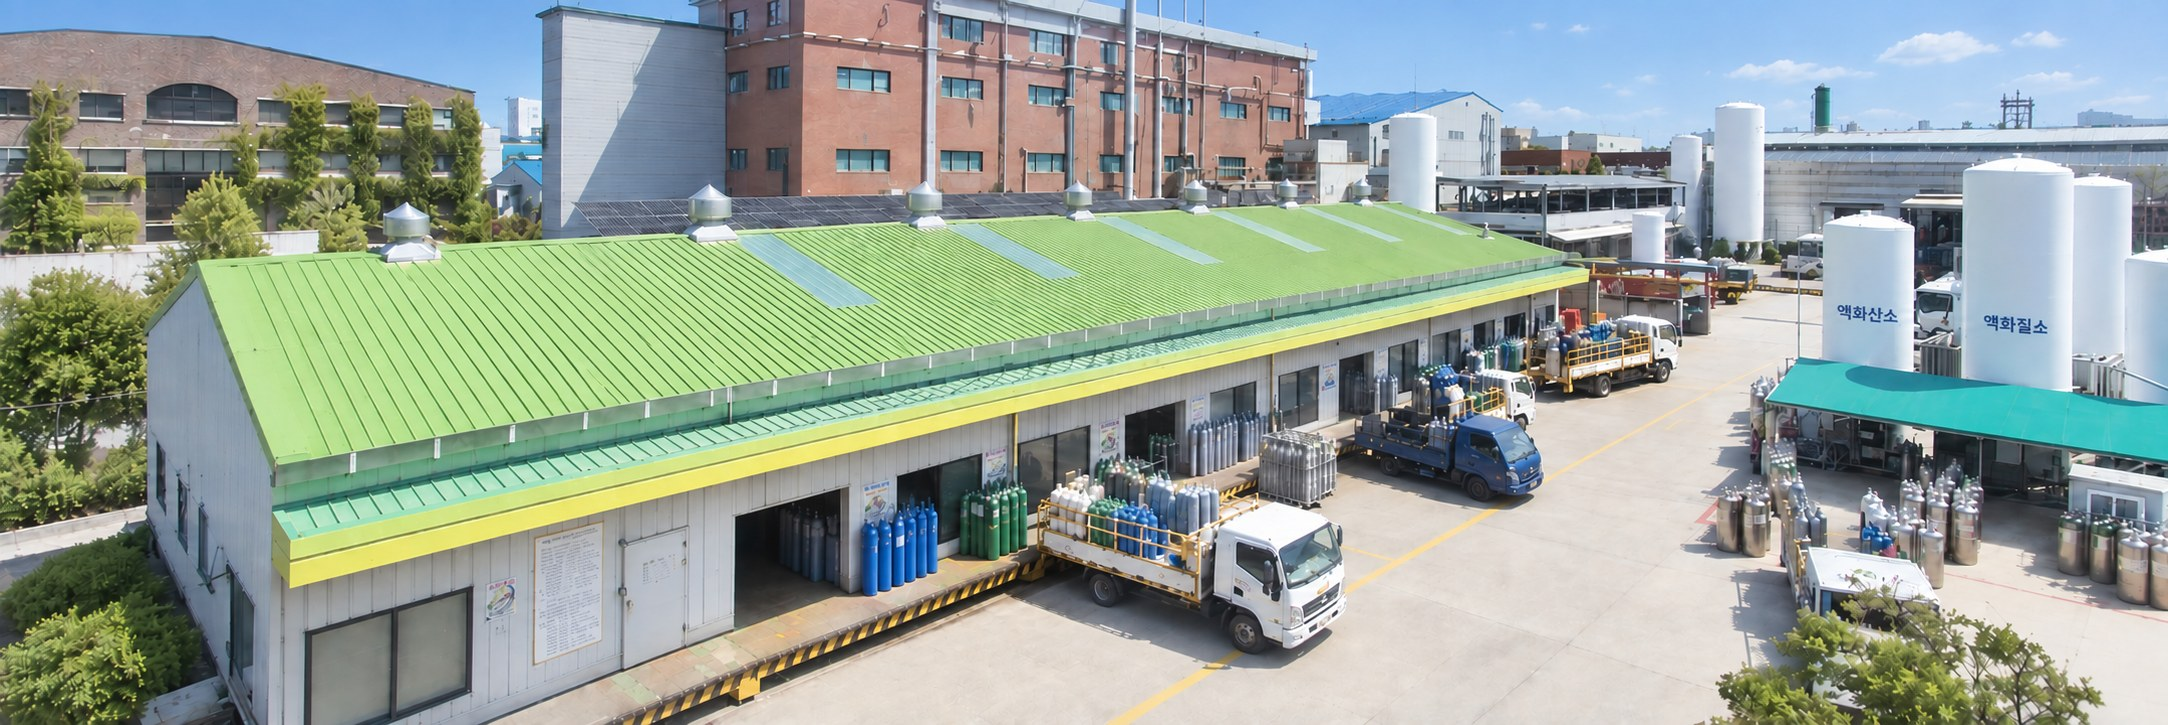
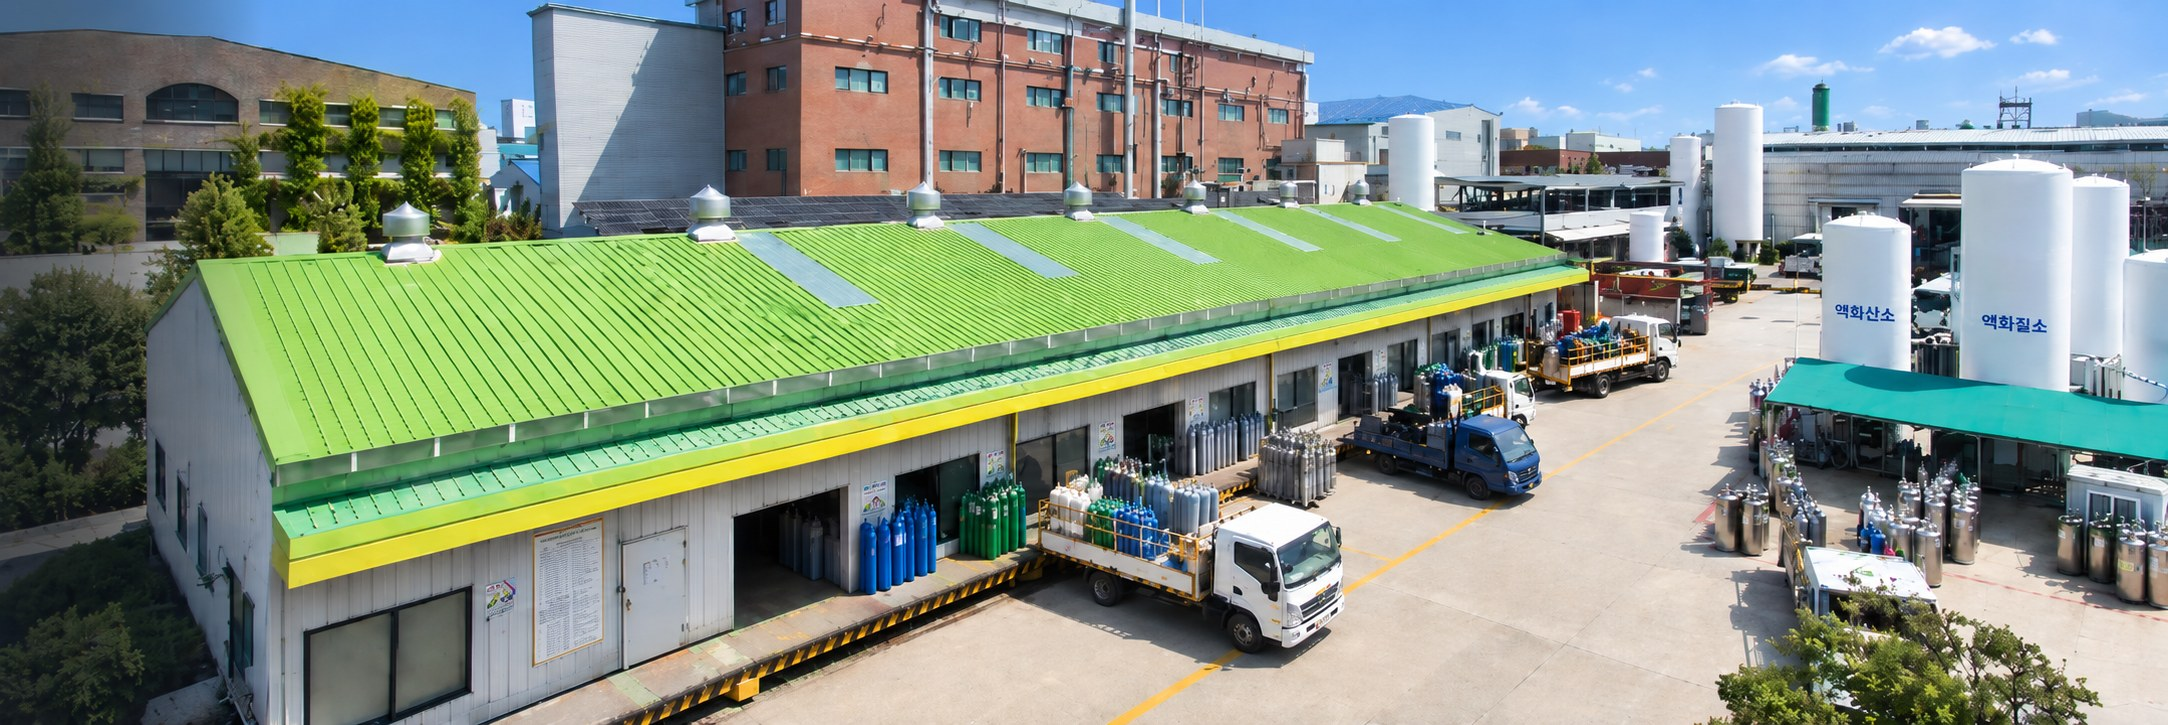
메인 Our Facility: 새 사진으로 교체(location-hq ?v=20260913i), 패럴랙스 확대 기준점을 오른쪽으로 이동해 우측 탱크가 온전히 보이도록 조정. style.css ?v=758

diff --git a/index.html b/index.html
@@ -7,7 +7,7 @@
   <meta name="description" content="한국탄산화학㈜(KLCC)는 산소·질소·아르곤·탄산·수소 등 산업용·의료용 가스와 드라이아이스를 제조·공급하는 전문기업입니다.">
   <link rel="stylesheet" href="assets/css/reset.css">
   <link rel="stylesheet" href="assets/css/variables.css?v=20260801">
-  <link rel="stylesheet" href="assets/css/style.css?v=20260731-757">
+  <link rel="stylesheet" href="assets/css/style.css?v=20260731-758">
 </head>
 <body>
 
@@ -281,7 +281,7 @@
 
     <!-- ===== ⑥ 팩토리 (드론 파노라마 풀블리드) ===== -->
     <section class="factory" id="factory">
-      <img class="factory__bg" src="assets/images/site/location-hq.jpg?v=20260913h" alt="한국탄산화학 본사·시흥공장 전경" loading="lazy">
+      <img class="factory__bg" src="assets/images/site/location-hq.jpg?v=20260913i" alt="한국탄산화학 본사·시흥공장 전경" loading="lazy">
       <div class="factory__overlay">
         <div class="container">
           <span class="eyebrow eyebrow--light" data-i18n="home.factory.eyebrow">Our Facility</span>

diff --git a/assets/css/style.css b/assets/css/style.css
@@ -1601,7 +1601,7 @@ html[lang="en"] .greeting__sign .sign-name { display: block; margin-left: 0; mar
 /* ⑥ 팩토리 (풀블리드 드론) */
 /* 레퍼런스: 가로로 긴 파노라마 비율(약 4.22:1), 텍스트는 세로 중앙 */
 .factory { position: relative; overflow: hidden; aspect-ratio: 2168 / 600; min-height: 320px; display: flex; align-items: center; }
-.factory__bg { position: absolute; inset: 0; width: 100%; height: 100%; object-fit: fill; object-position: center; z-index: 0; }
+.factory__bg { position: absolute; inset: 0; width: 100%; height: 100%; object-fit: fill; object-position: center; transform-origin: right center; z-index: 0; }
 .factory__overlay { position: relative; z-index: 2; width: 100%; padding-block: clamp(20px, 3vw, 40px); }
 @media (max-width: 768px) { .factory { aspect-ratio: auto; min-height: 380px; } .factory__overlay { padding-block: clamp(48px, 10vw, 72px); } }
 .factory__title { font-size: var(--fs-h1); font-weight: 800; color: #fff; margin: var(--space-3) 0 var(--space-4); line-height: 1.2; text-shadow: 0 2px 12px rgba(0,0,0,.55); }

diff --git a/company.html b/company.html
@@ -7,7 +7,7 @@
   <meta name="description" content="한국탄산화학㈜ 회사소개 — 회사 개요, 주요 사업 영역, 연혁, 조직도, 생산시설 및 강점.">
   <link rel="stylesheet" href="assets/css/reset.css">
   <link rel="stylesheet" href="assets/css/variables.css?v=20260801">
-  <link rel="stylesheet" href="assets/css/style.css?v=20260731-757">
+  <link rel="stylesheet" href="assets/css/style.css?v=20260731-758">
   <!-- 대표이사 서명용 손글씨 폰트 (한글: Nanum Pen Script, 일어: Yomogi) -->
   <link rel="preconnect" href="https://fonts.googleapis.com">
   <link rel="preconnect" href="https://fonts.gstatic.com" crossorigin>

diff --git a/company-overview.html b/company-overview.html
@@ -8,7 +8,7 @@
   <meta name="description" content="한국탄산화학㈜ 회사 개요와 조직도 — 상호·설립·사업분야·생산제품 및 조직 구성.">
   <link rel="stylesheet" href="assets/css/reset.css">
   <link rel="stylesheet" href="assets/css/variables.css?v=20260801">
-  <link rel="stylesheet" href="assets/css/style.css?v=20260731-757">
+  <link rel="stylesheet" href="assets/css/style.css?v=20260731-758">
   <!-- 대표이사 서명용 손글씨 폰트 (한글: Nanum Pen Script, 일어: Yomogi) -->
   <link rel="preconnect" href="https://fonts.googleapis.com">
   <link rel="preconnect" href="https://fonts.gstatic.com" crossorigin>

diff --git a/company-network.html b/company-network.html
@@ -7,7 +7,7 @@
   <meta name="description" content="한국탄산화학㈜ 계열사 — 관계사 네트워크.">
   <link rel="stylesheet" href="assets/css/reset.css">
   <link rel="stylesheet" href="assets/css/variables.css?v=20260801">
-  <link rel="stylesheet" href="assets/css/style.css?v=20260731-757">
+  <link rel="stylesheet" href="assets/css/style.css?v=20260731-758">
   <!-- 대표이사 서명용 손글씨 폰트 (한글: Nanum Pen Script, 일어: Yomogi) -->
   <link rel="preconnect" href="https://fonts.googleapis.com">
   <link rel="preconnect" href="https://fonts.gstatic.com" crossorigin>

diff --git a/products-supply.html b/products-supply.html
@@ -7,7 +7,7 @@
   <meta name="description" content="고압가스 용기 재검사 — 한국가스안전공사 지정 전문검사기관 ㈜부성테크니컬(계열사)이 접수·내압시험·표면처리·판정의 4단계 검사로 용기 안전을 책임집니다.">
   <link rel="stylesheet" href="assets/css/reset.css">
   <link rel="stylesheet" href="assets/css/variables.css?v=20260801">
-  <link rel="stylesheet" href="assets/css/style.css?v=20260731-757">
+  <link rel="stylesheet" href="assets/css/style.css?v=20260731-758">
 </head>
 <body>
 

diff --git a/products-ice.html b/products-ice.html
@@ -7,7 +7,7 @@
   <meta name="description" content="드라이아이스 너겟·블록 생산설비 日産 36톤. 고밀도 1.60g/㎤·고순도 99.995% 식품용 드라이아이스와 제조공정·용도·취급안전을 소개합니다.">
   <link rel="stylesheet" href="assets/css/reset.css">
   <link rel="stylesheet" href="assets/css/variables.css?v=20260801">
-  <link rel="stylesheet" href="assets/css/style.css?v=20260731-757">
+  <link rel="stylesheet" href="assets/css/style.css?v=20260731-758">
 </head>
 <body>
 

diff --git a/products-construction.html b/products-construction.html
@@ -7,7 +7,7 @@
   <meta name="description" content="가스 설비 시설·시공 — 액화가스 저장탱크·기화설비·배관·공급설비를 설계부터 시운전·사후관리까지 원스톱으로 시공합니다.">
   <link rel="stylesheet" href="assets/css/reset.css">
   <link rel="stylesheet" href="assets/css/variables.css?v=20260801">
-  <link rel="stylesheet" href="assets/css/style.css?v=20260731-757">
+  <link rel="stylesheet" href="assets/css/style.css?v=20260731-758">
 </head>
 <body>
 

diff --git a/products-gas.html b/products-gas.html
@@ -7,7 +7,7 @@
   <meta name="description" content="산업용·의료용·혼합·특수·액화석유가스 — 고순도 산소·질소·아르곤·수소·헬륨·탄산·LPG를 Bulk·실린더로 공급·제조합니다.">
   <link rel="stylesheet" href="assets/css/reset.css">
   <link rel="stylesheet" href="assets/css/variables.css?v=20260801">
-  <link rel="stylesheet" href="assets/css/style.css?v=20260731-757">
+  <link rel="stylesheet" href="assets/css/style.css?v=20260731-758">
 </head>
 <body>
 

diff --git a/quality.html b/quality.html
@@ -7,7 +7,7 @@
   <meta name="description" content="고순도 제조 역량, 식품첨가물 탄산가스 품질, 용기검사장, Gas Service Team.">
   <link rel="stylesheet" href="assets/css/reset.css">
   <link rel="stylesheet" href="assets/css/variables.css?v=20260801">
-  <link rel="stylesheet" href="assets/css/style.css?v=20260731-757">
+  <link rel="stylesheet" href="assets/css/style.css?v=20260731-758">
 </head>
 <body>
 

diff --git a/support.html b/support.html
@@ -7,7 +7,7 @@
   <meta name="description" content="한국탄산화학 고객지원 — 사업장 연락처, 자주 묻는 질문.">
   <link rel="stylesheet" href="assets/css/reset.css">
   <link rel="stylesheet" href="assets/css/variables.css?v=20260801">
-  <link rel="stylesheet" href="assets/css/style.css?v=20260731-757">
+  <link rel="stylesheet" href="assets/css/style.css?v=20260731-758">
 </head>
 <body>
 
